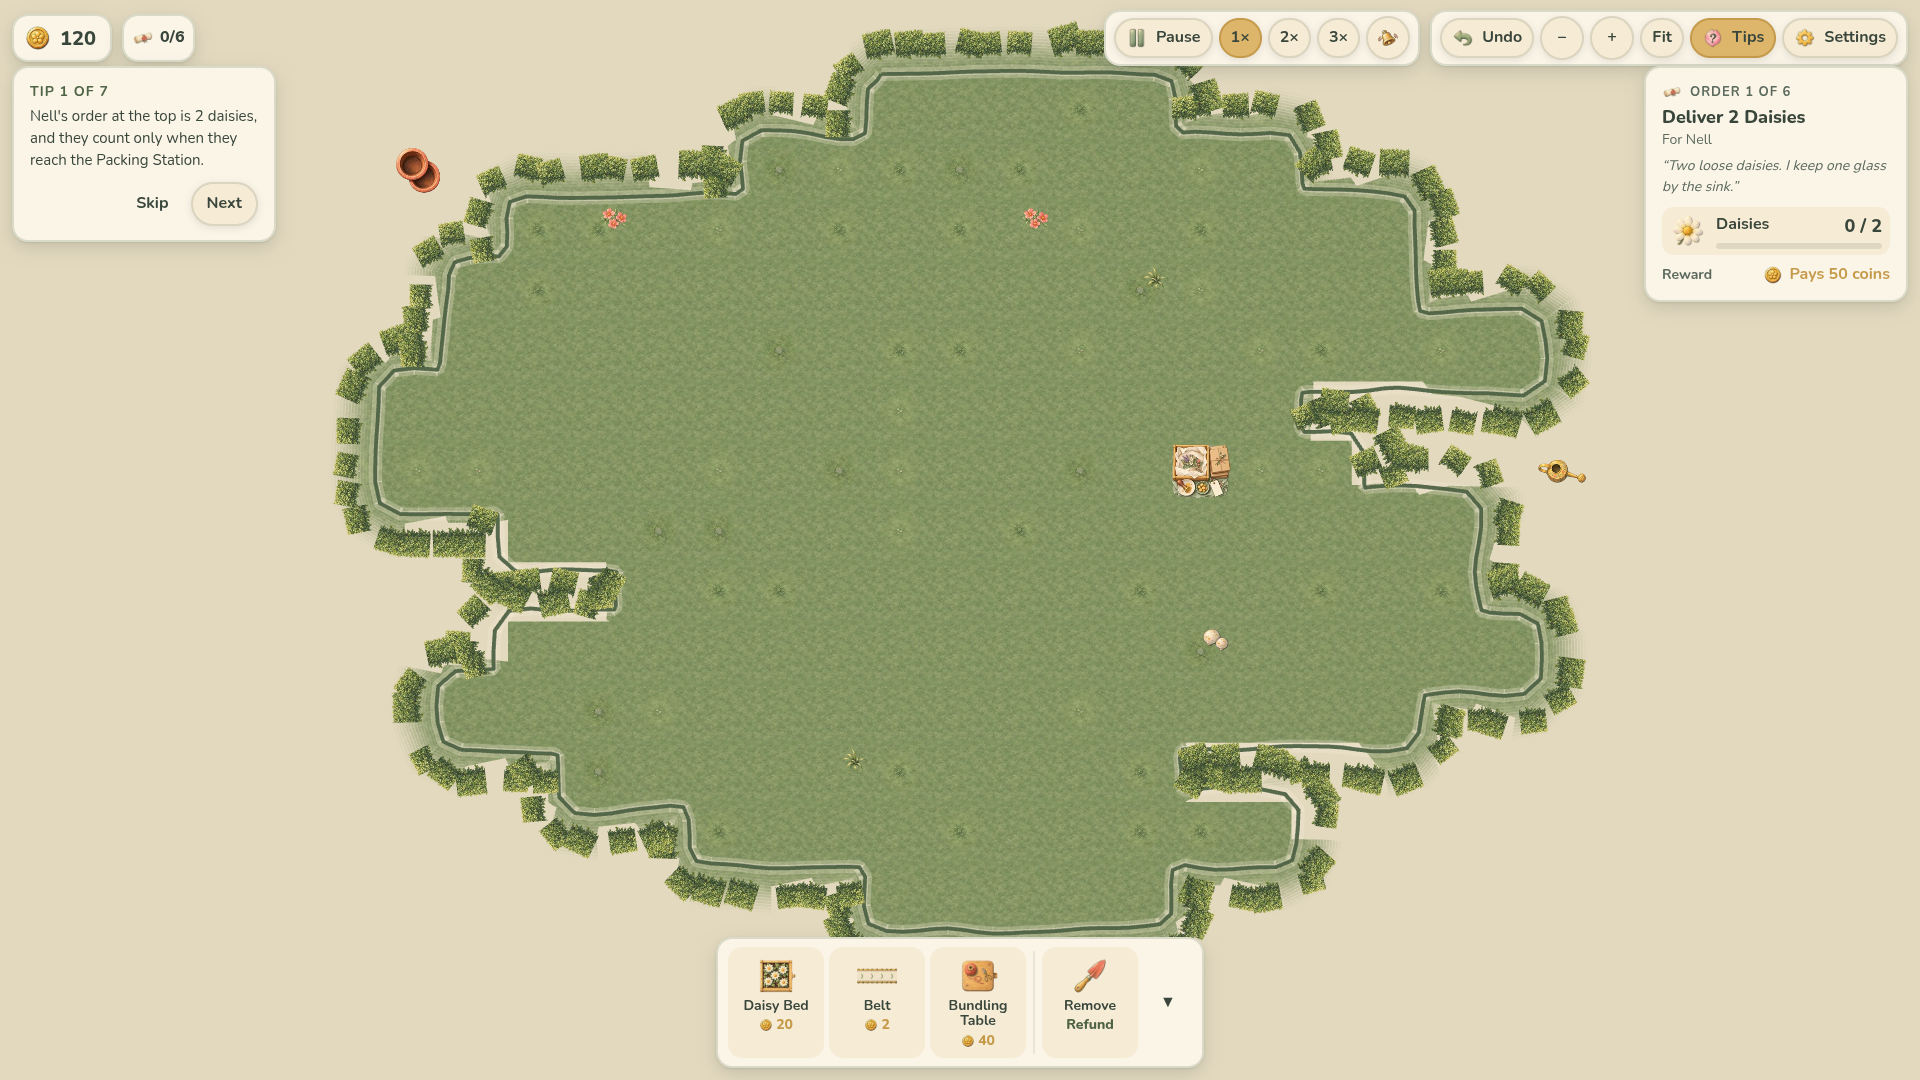
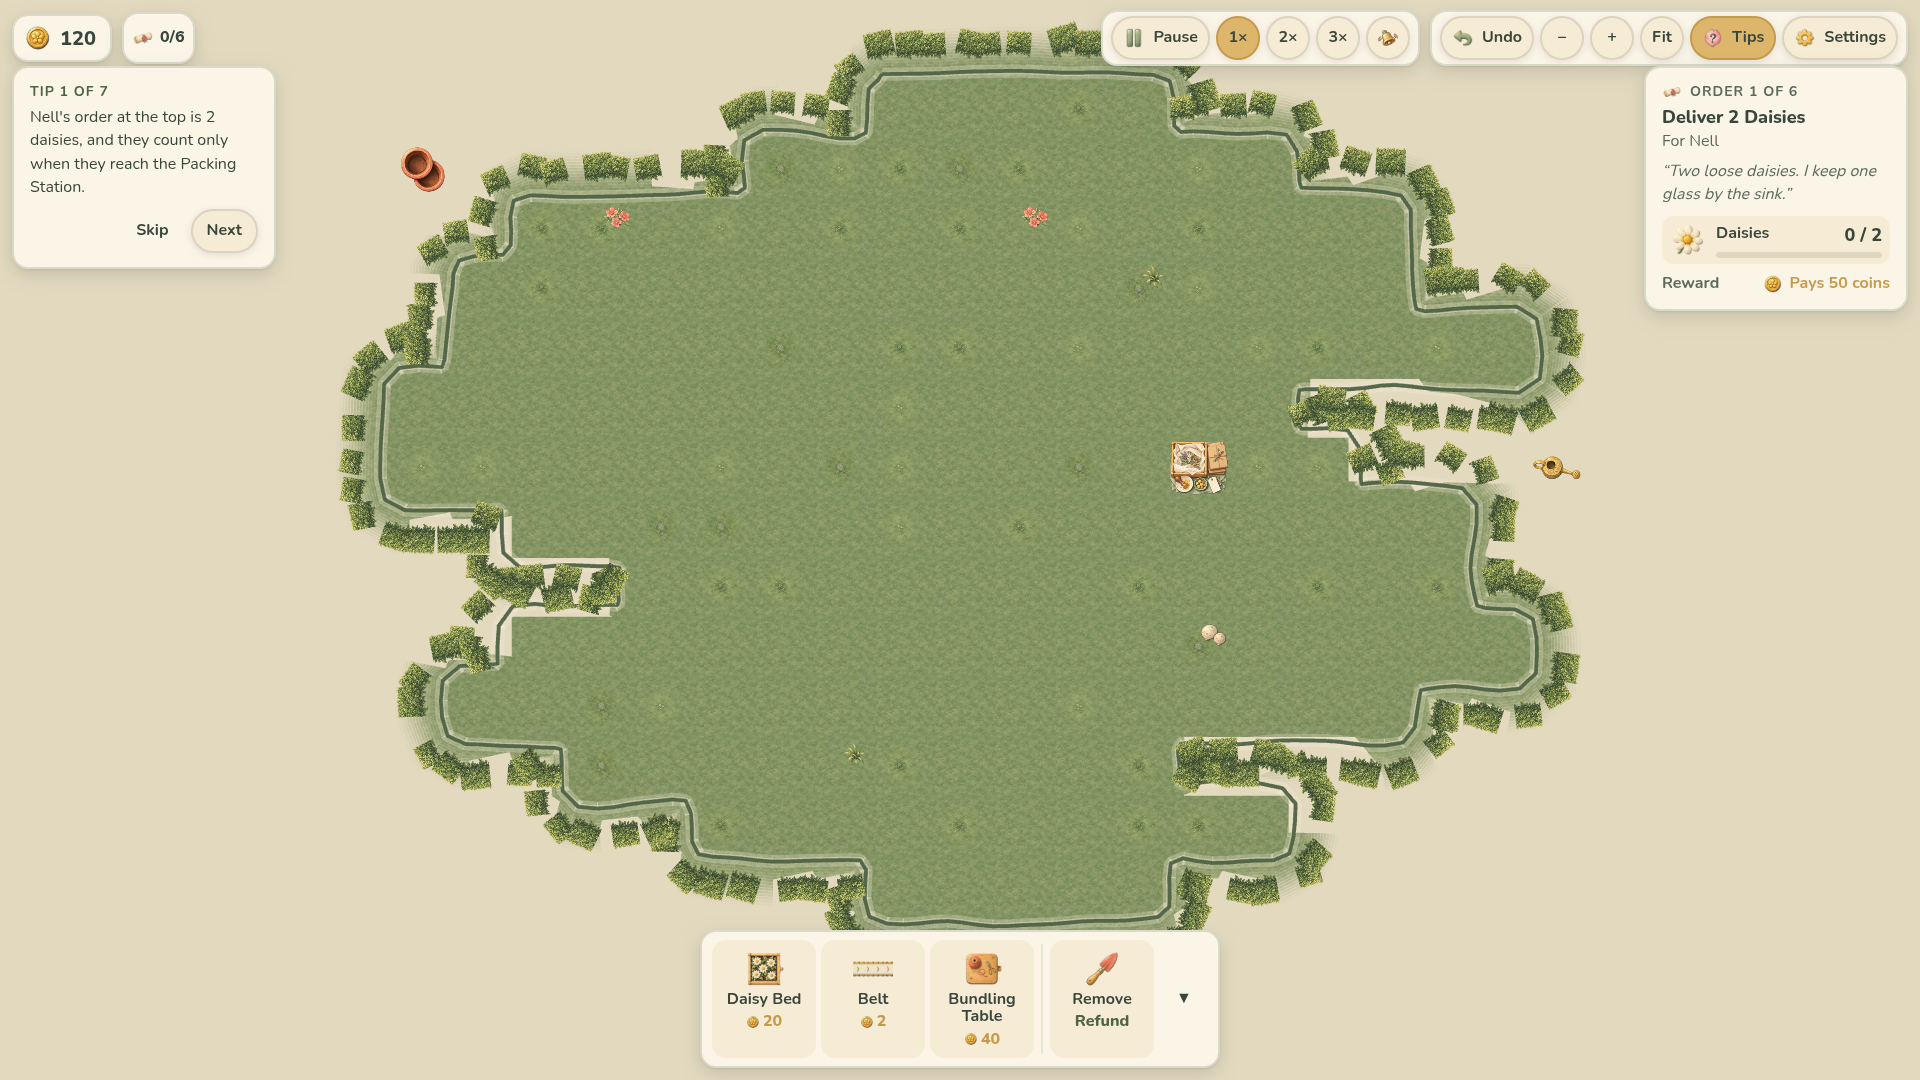
HUD: 44 px top-bar targets; the bar wraps at 200% zoom and the side cards drop below it
Found by tools/a11ycheck.mjs (hit target and 200% zoom rows of the checklist).

diff --git a/src/ui/styles.css b/src/ui/styles.css
@@ -94,11 +94,12 @@ button:focus-visible, [tabindex]:focus-visible, input:focus-visible, a:focus-vis
 .topbar {
   position: absolute; top: 10px; left: 12px; right: 12px;
   display: flex; align-items: center; gap: 10px;
+  flex-wrap: wrap; /* at 200% browser zoom the bar wraps to a second row instead of clipping */
   pointer-events: none;
 }
 .topbar > * { pointer-events: auto; }
-.topbar .group { display: flex; align-items: center; gap: 6px; padding: 4px 8px; min-height: 48px; }
-.topbar .group .btn { padding: 6px 10px; min-height: 40px; }
+.topbar .group { display: flex; align-items: center; gap: 6px; padding: 4px 8px; min-height: 52px; }
+.topbar .group .btn { padding: 6px 10px; min-height: 44px; min-width: 44px; justify-content: center; }
 .topbar .spacer { flex: 1; pointer-events: none; }
 .coins { display: flex; align-items: center; gap: 8px; font-weight: 800; font-size: 20px; padding: 6px 14px 6px 10px; min-height: 48px; }
 .paused-chip { font-weight: 800; color: var(--coral-deep); }
@@ -309,3 +310,10 @@ button:focus-visible, [tabindex]:focus-visible, input:focus-visible, a:focus-vis
 .slider { display: inline-flex; align-items: center; gap: 8px; }
 .slider input[type='range'] { width: 150px; accent-color: var(--honey-deep); cursor: pointer; }
 .slider .val { min-width: 30px; text-align: right; font-weight: 800; font-variant-numeric: tabular-nums; }
+
+/* Very narrow windows (200% browser zoom on a laptop): the top bar wraps to two or three
+   rows, so the side cards start lower and the tip card does not sit under the bar. */
+@media (max-width: 760px) {
+  .orderpanel, .tutorial { top: 180px; }
+  .orderpanel { width: min(264px, calc(100% - 24px)); }
+}
